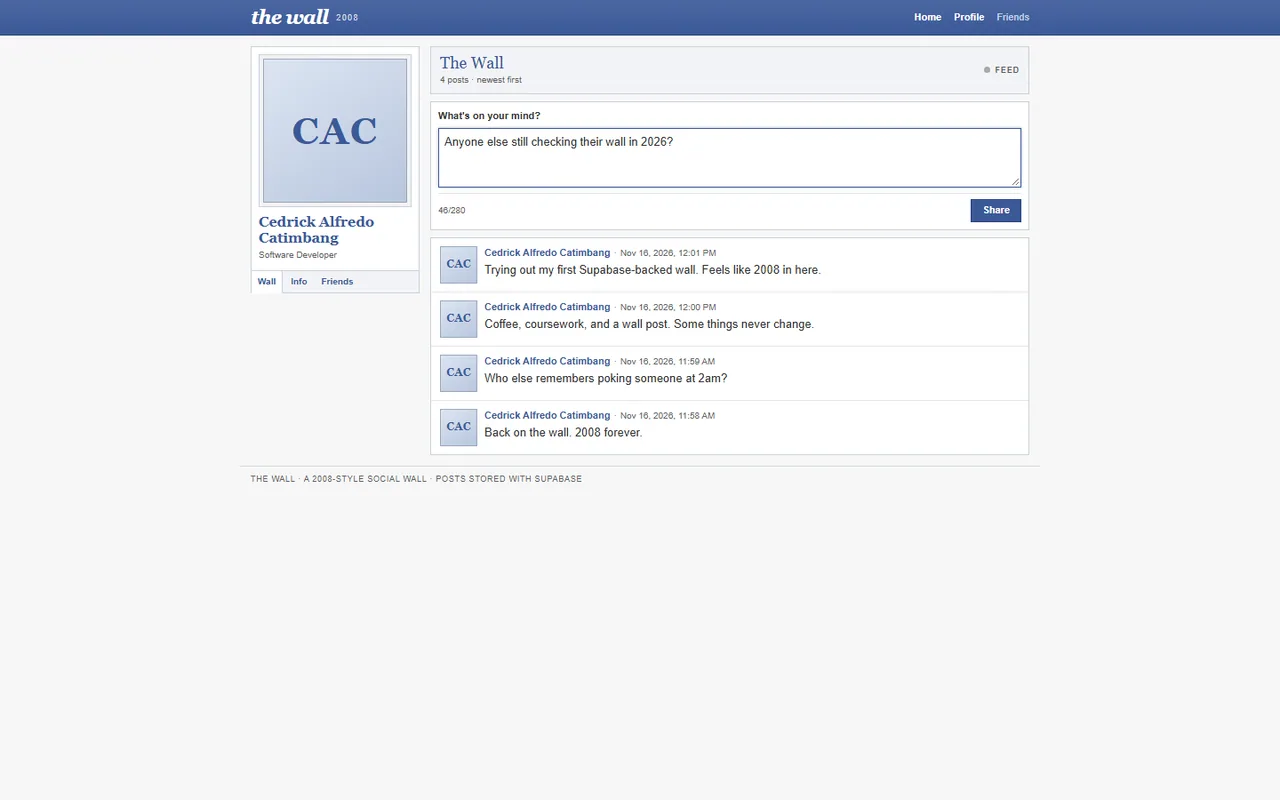
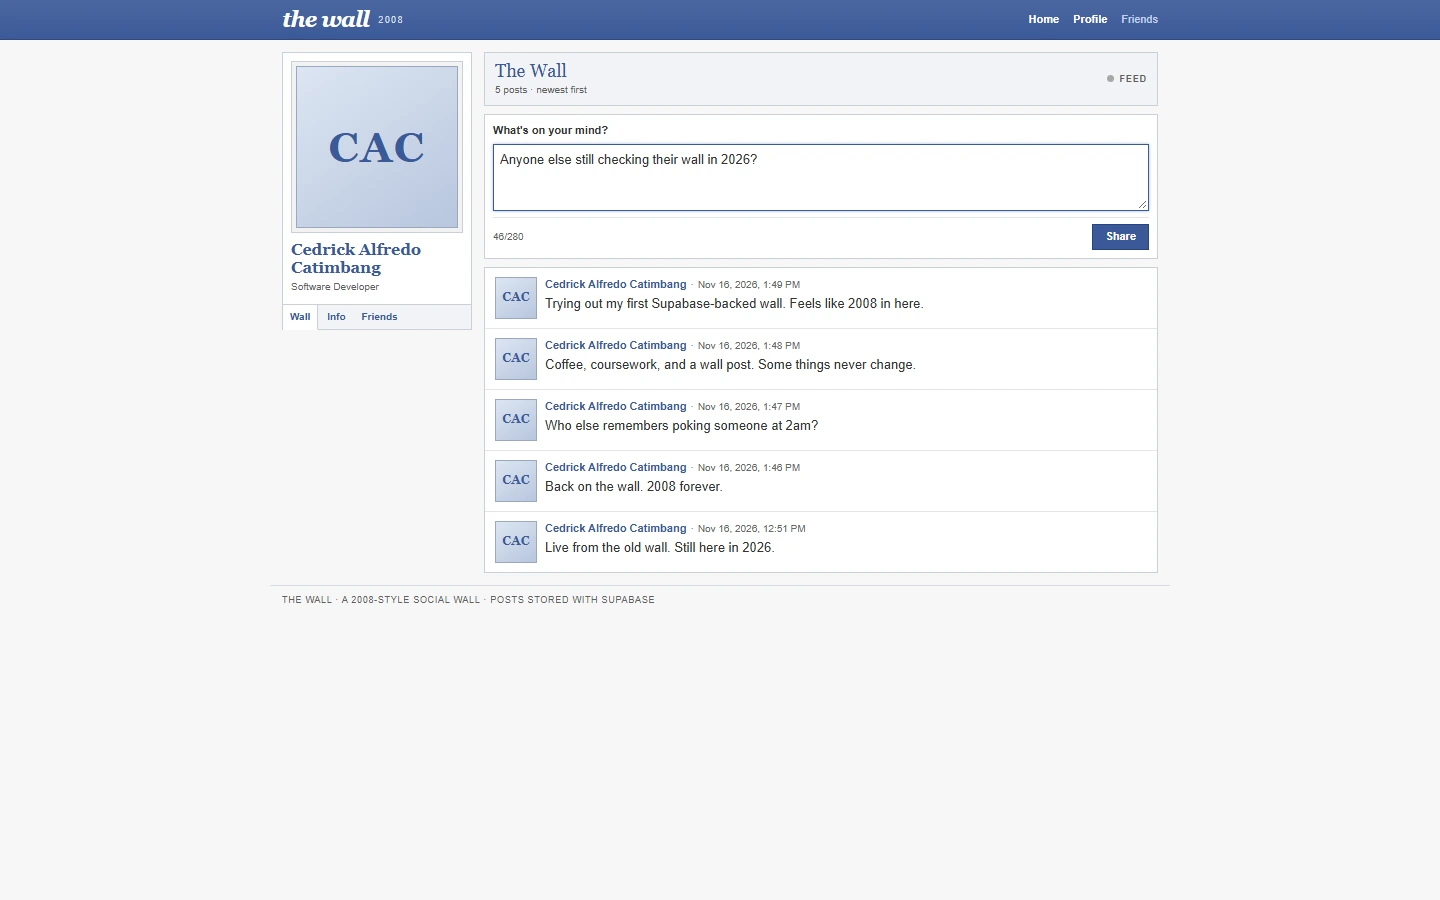
docs: finalize clean feed screenshots and submission notes

diff --git a/docs/velitaxis/PROJECT-MEMORY.md b/docs/velitaxis/PROJECT-MEMORY.md
@@ -27,15 +27,16 @@ Next.js 16.4.6 (App Router), React 19.3, TypeScript strict, Tailwind 4,
 ## Current state
 
 The local app is fully implemented and verified against Supabase: typecheck, lint, build,
-10 unit tests, and 8 Playwright tests pass, including post → reload persistence,
+11 unit tests, and 8 Playwright tests pass, including post → reload persistence,
 newest-first ordering, Realtime, axe, and responsive checks. The public repo is
-`https://github.com/Calfredo23/my-wall`; CI passed at `af35ebb`. The public deployment is
-`https://my-wall-coral.vercel.app`; `https://my-wall.vercel.app` is an unrelated app.
+`https://github.com/Calfredo23/my-wall`; CI run `43806451793` passed. The public deployment
+is `https://my-wall-coral.vercel.app`; `https://my-wall.vercel.app` is an unrelated app.
 Supabase `public.posts` has RLS public select/insert, a 280-character check, and Realtime.
-Demo posts were seeded and final screenshots captured. The live smoke passed on
-`de8f27a`: canonical URL, post → reload persistence, Realtime in a second tab, and zero
-console errors. CI run `43806451793` passed. Remaining work: rerun the fixed `supabase/demo-posts.sql` to remove the duplicated demo
-rows and restore the five-post feed, then submit Test 2.
+The live smoke passed: canonical URL, post → reload persistence, Realtime in a second tab,
+and zero console errors. The clean five-post feed was verified after rerunning the fixed
+demo seed, and the desktop/mobile screenshots were recaptured against it. All implementation,
+verification, deployment, and packaging work is complete; the only remaining step is
+submitting Test 2.
 
 Known deployment note: timestamps are formatted with `Asia/Manila` so the server and
 browser render identical text and do not trigger a hydration mismatch.

diff --git a/docs/velitaxis/NEXT-TASK.md b/docs/velitaxis/NEXT-TASK.md
@@ -15,17 +15,13 @@ Test 2 on a public Vercel URL.
 
 ## Status
 
-Implementation, Supabase integration, repo, CI, deployment, demo feed, screenshots, and
-live verification are done. The canonical live URL is
-`https://my-wall-coral.vercel.app`. The hydration mismatch was fixed by pinning
-`formatPostTime` to `Asia/Manila`.
+Everything is complete: implementation, Supabase integration, repo, CI, deployment, clean
+demo feed, refreshed screenshots, live verification, and reviewer notes. The canonical live
+URL is `https://my-wall-coral.vercel.app`.
 
 ## Next action
 
-1. Owner reruns the fixed `supabase/demo-posts.sql` to remove the duplicated demo rows and
-   restore the five-post feed.
-2. Confirm the live feed is clean.
-3. Submit Test 2 with the live URL, repo, screenshots, and reviewer notes.
+Submit Test 2 with the live URL, public repo, screenshots, and reviewer notes.
 
 ## Acceptance criteria
 

diff --git a/docs/velitaxis/MEASUREMENTS.md b/docs/velitaxis/MEASUREMENTS.md
@@ -8,8 +8,9 @@
 - Live smoke: `https://my-wall-coral.vercel.app` — canonical URL, post → reload
   persistence, Realtime in a second tab, 0 console errors.
 - CI: run `43806451793` on `de8f27a` — both jobs passed.
-- Cleanup: the local E2E run adds three `Wall test…` / `Realtime test…` rows; run the
-  fixed `supabase/demo-posts.sql` after the suite to restore the five-post feed.
+- Cleanup: the local E2E run adds three `Wall test…` / `Realtime test…` rows; the fixed
+  `supabase/demo-posts.sql` restores the clean five-post feed. Final screenshots were
+  recaptured after cleanup.
 - axe: 0 violations on the opening wall after contrast correction.
 - Responsive: no horizontal page scroll at 360, 768, and 1440.
 

diff --git a/docs/velitaxis/LOG.md b/docs/velitaxis/LOG.md
@@ -52,3 +52,11 @@
   E2E patterns before inserting, so it is safe to rerun.
 - Live feed currently has duplicates; one final SQL run will restore the five-post feed
   (four demo posts plus the live smoke post).
+
+## 2026-11-16 — Clean feed and final screenshots
+
+- Reran the idempotent `supabase/demo-posts.sql`. Verified the live feed has exactly five
+  posts, newest-first, with no E2E rows, no duplicates, and zero console errors.
+- Recaptured `submission/screenshots/wall-desktop.png` and `wall-mobile.png` against the
+  clean feed and refreshed the WebP images used by the README.
+- Test 2 is submission-ready: live URL, public repo, screenshots, and reviewer notes.
